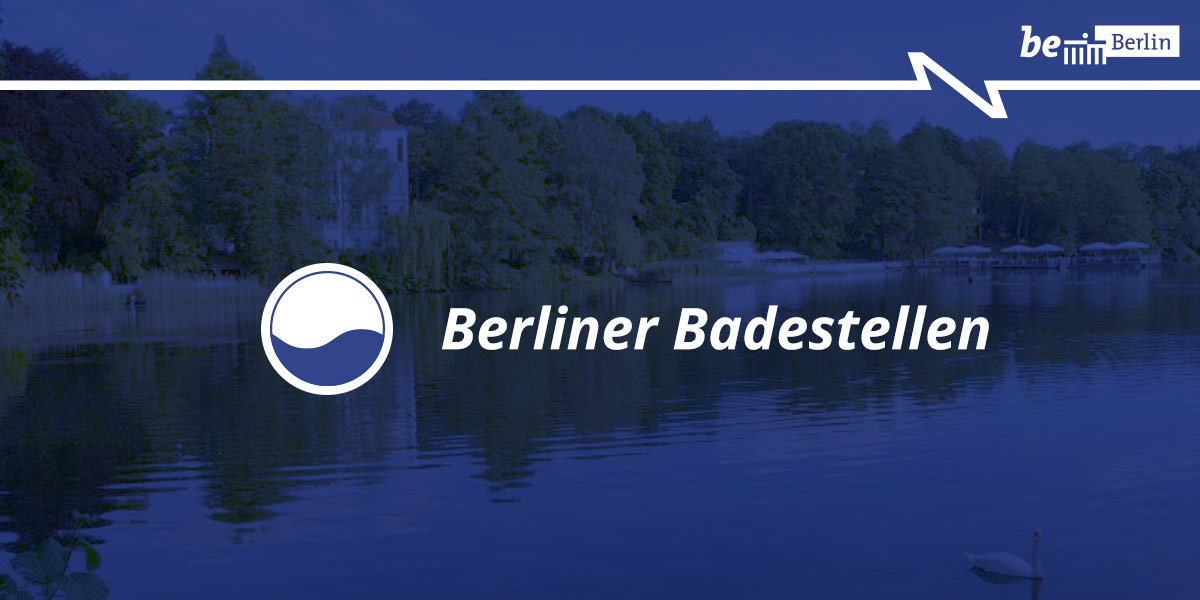
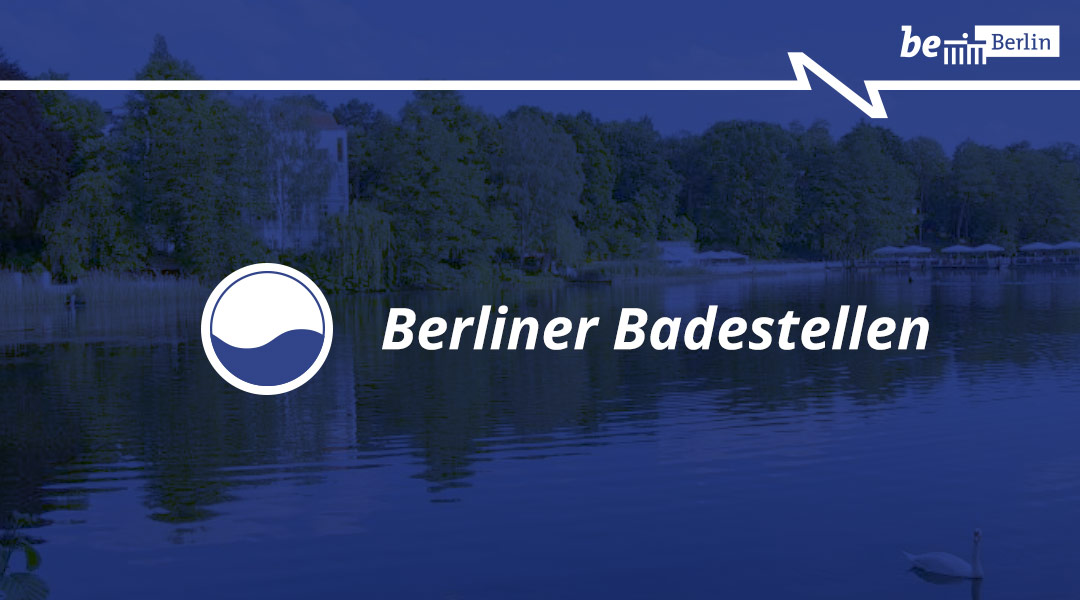
new social media image ratio

diff --git a/app/index.html b/app/index.html
@@ -36,7 +36,7 @@
   <meta property="og:type" content="website">
   <meta property="og:title" content="Berliner Badestellen">
   <meta property="og:image" content="https://technologiestiftung.github.io/badestellen/app/images/social_media.jpg">
-  <meta property="og:image:width" content="1200">
+  <meta property="og:image:width" content="1080">
   <meta property="og:image:height" content="600">
   <meta property="og:description" content="Aktuelle Badegewässerqualität und Informationen rund um die Berliner Badestellen">
   <meta property="og:site_name" content="Berliner Badestellen">
